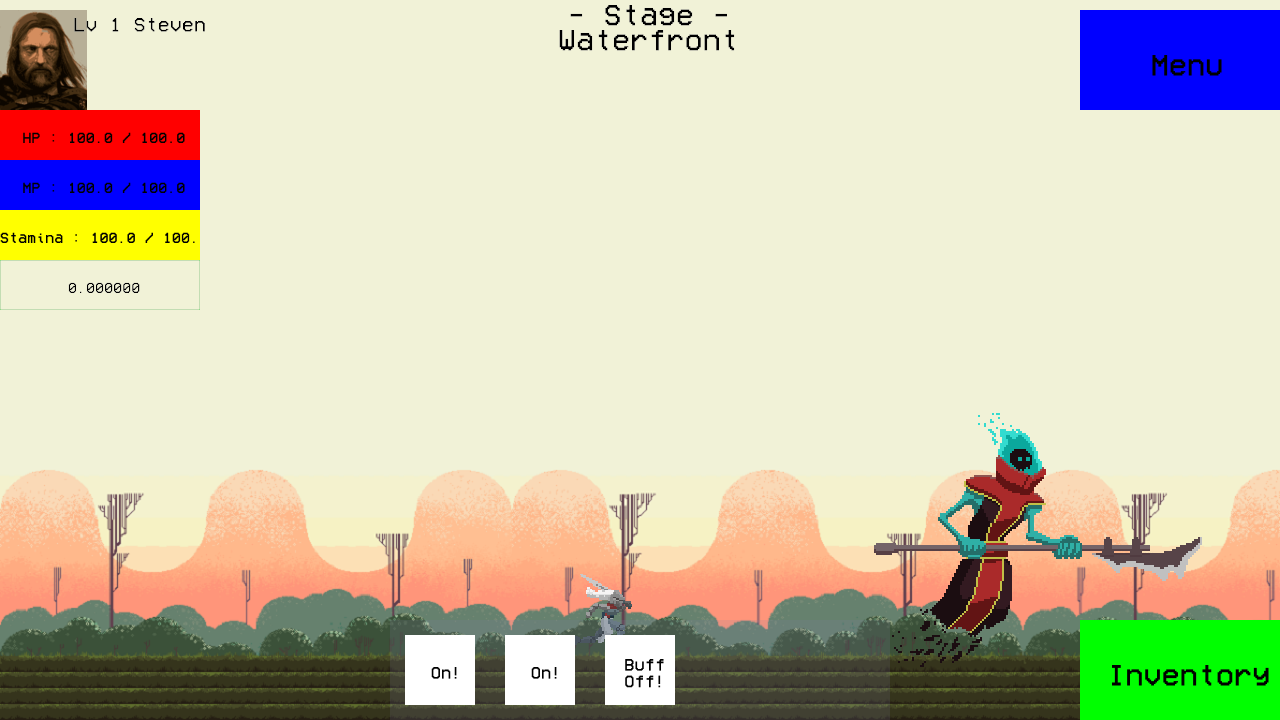
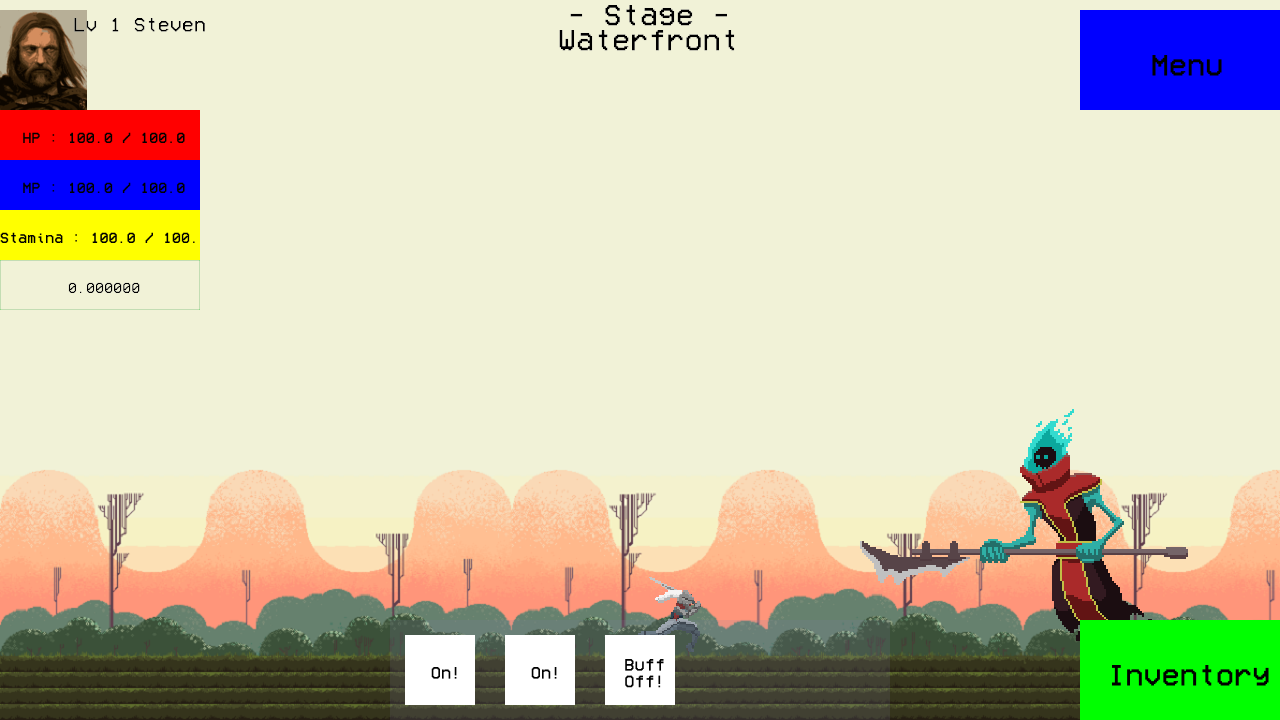
#update

Changed region(s): [[0.6562, 0.5806, 0.9375, 0.9167], [0.4375, 0.7944, 0.5625, 0.8861]]

diff --git a/OpenGL-portfolio/GameObject/Enermy/GhostWarrior.cpp b/OpenGL-portfolio/GameObject/Enermy/GhostWarrior.cpp
@@ -103,7 +103,30 @@ GhostWarrior::GhostWarrior(int number)
 
 	_aiTime = 2.0f;
 
+	// 스킬 1 로드
+	iImage* imgS = new iImage();
+	{
+		for (int i = 1; i <= 21; i++)
+		{
+			iGraphics* g = iGraphics::instance();
+			setRGBA(1, 1, 1, 1);
+			Texture* tex = createImage("assets/stage/ghostwarrior/Skill1/skill (%d).png", i);
+			tex->width *= 1.0;
+			tex->height *= 1.0;
+			tex->width *= 1.0;
+			tex->potHeight *= 1.0;
+			imgS->addObject(tex);
+			freeImage(tex);
+		}
+		imgS->position = iPointMake(0,0);
+		imgS->aniDt = 0.0f;
+		imgS->_aniDt = 0.025f;
+		imgS->_repeatNum = 1;
 
+		imgSkill1 = imgS;
+
+		setRGBA(1, 1, 1, 1);
+	}
 }
 
 GhostWarrior::~GhostWarrior()
@@ -310,6 +333,13 @@ void GhostWarrior::paint(float dt, iPoint offset, MapTile* tile, int NumX, int N
 		// 페이즈 1처럼 행동
 	}
 
+	if (imgSkill1->animation)
+	{
+		imgSkill1->paint(dt, offset);
+		
+	}
+
+
 	
 }
 
@@ -336,25 +366,26 @@ void GhostWarrior::setBehave(ObjectBehave be, int dir)
 
 void GhostWarrior::Skill1()
 {
-	extern Player* hero;
 
-	if (hero->getPosition().x > position.x)
-		hero->setPosition(hero->getPosition() - iPointMake(-10, 0));
+	iPoint targetPos;
+	printf("skill! shooting!\n");
 
+	if (direction == 0)
+	{
+		targetPos = iPointMake(position.x, position.y- imgSkill1->touchRect().size.height+70);
+	}
 	else
-		hero->setPosition(hero->getPosition() - iPointMake(+10, 0));
+	{
+		targetPos = iPointMake(position.x-imgSkill1->touchRect().size.width, position.y - imgSkill1->touchRect().size.height+70);
+	}
+	imgSkill1->position = targetPos;
+	imgSkill1->startAnimation(cbSkill,this);
 
-	shakeCamera(25, 0.5);
-	audioPlay(5);
-	hero->setHP(hero->getHp() - 5.0);
-	hero->setBehave(ObjectBehave::ObjectBehave_hurt, hero->direction);
-	extern iStrTex* hpIndicator;
-	hpIndicator->setString("%f", hero->getHp());
 
-	if (hero->getHp() < 1)
-		hero->alive = false;
+	printf("end!\n");
 
 }
+
 
 void GhostWarrior::Skill2()
 {
@@ -398,16 +429,14 @@ void GhostWarrior::cbBehave(void* cb)
 
 void GhostWarrior::cbSkill(void* cb)
 {
-
 	GhostWarrior* o = (GhostWarrior*)cb;
 	o->Skill1();
-	o->setBehave(ObjectBehave::ObjectBehave_idle, o->direction);
 }
 
 void GhostWarrior::cbMeleeAttack(void* cb)
 {
 	GhostWarrior* o = (GhostWarrior*)cb;
-	
+	o->Skill1();
 	o->aiTime = 0.0f;
 	o->count++;
 
@@ -416,8 +445,9 @@ void GhostWarrior::cbMeleeAttack(void* cb)
 void GhostWarrior::cbMeleeAttack2(void* cb)
 {
 	GhostWarrior* o = (GhostWarrior*)cb;
-
+	o->Skill1();
 	o->aiTime = 0.0f;
 	o->count2++;
 }
+
 

diff --git a/OpenGL-portfolio/GameObject/Enermy/GhostWarrior.h b/OpenGL-portfolio/GameObject/Enermy/GhostWarrior.h
@@ -13,6 +13,7 @@ public:
 
 	void setBehave(ObjectBehave be, int dir);
 	void Skill1();
+	
 	void Skill2();
 	void setDmg(float dmg);
 
@@ -21,6 +22,7 @@ public:
 	static void cbSkill(void* cb);
 	static void cbMeleeAttack(void* cb);
 	static void cbMeleeAttack2(void* cb);
+
 
 public:
 
@@ -35,7 +37,11 @@ public:
 	int count;
 	int count2;
 public:
-	
 	float aiTime, _aiTime;
+
+public:
+	iImage* imgSkill1; //
+
+
 
 };

diff --git a/OpenGL-portfolio/game/vilege.cpp b/OpenGL-portfolio/game/vilege.cpp
@@ -265,9 +265,7 @@ void keyVilliege(iKeyState stat, iPoint point)
 		if (sy != ey) // 횡스크롤 게임이므로 최단경로 고려할떄 같은 가로위치일떄만 고려함
 			return;
 
-		sp->dijkstra(sy * stageMapTileNumX + sx, ey * stageMapTileNumX + ex, hero->path, hero->pathNum);
-
-		sp->removeDuplicate(hero->path, hero->pathNum);
+	
 		hero->setTargetPosition(hero->getPosition());
 		hero->pathIndex = 1;
 
